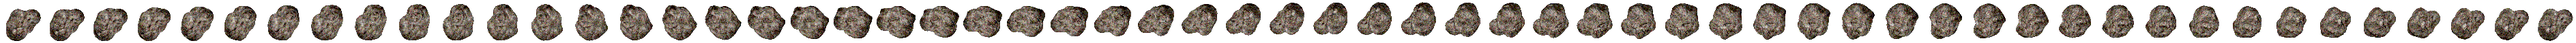
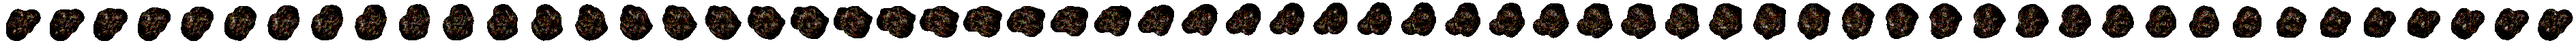
mexi em algumas variaveis

diff --git a/asteroid.py b/asteroid.py
@@ -6,11 +6,11 @@ from projectile import *
 from screen import List
 
 class Debri(Projectile):
-    def __init__(self, width: int, height: int, total_health: float, tabs: List[int]):
-        super().__init__("assets/images/spinning_asteroid.png", width, height, tabs, 6)
+    def __init__(self, image, width: int, height: int, total_health: float, tabs: List[int]):
+        super().__init__(image, width, height, tabs, 6)
         
         self.set_total_frames(59)
-        self.frame_duration = (1/(24 * 6))
+        self.frame_duration = (1/(24 * 4))
         self.playing = True
         
         self.speed = 300
@@ -125,9 +125,9 @@ class Asteroid(Projectile):
             explosion.anchor = self.anchor
             explosion.offset_multiplier = self.offset_multiplier
     
-    def spawn_debri(self, direction: Vector2):
+    def spawn_debri(self,image: str, direction: Vector2):
         w, h = self.get_width()//2, self.get_height()//2
-        debri : Debri = Debri(w, h, self.total_health//4, self.get_tabs())
+        debri : Debri = Debri(image, w, h, self.total_health//4, self.get_tabs())
         direction.normalize()
         debri.direction = direction
         debri.speed = self.speed*2
@@ -135,10 +135,10 @@ class Asteroid(Projectile):
         debri.horizontal_bounds = self.horizontal_bounds
     
     def spawn_debris(self):
-        self.spawn_debri(Vector2(-1,-1))
-        self.spawn_debri(Vector2(-1, 1))
-        self.spawn_debri(Vector2( 1, 1))
-        self.spawn_debri(Vector2( 1,-1))
+        self.spawn_debri("assets/images/spinning_debri_top_left.png",Vector2(-1,-1))
+        self.spawn_debri("assets/images/spinning_debri_bottom_left.png",Vector2(-1, 1))
+        self.spawn_debri("assets/images/spinning_debri_top_right.png",Vector2( 1, 1))
+        self.spawn_debri("assets/images/spinning_debri_bottom_right.png",Vector2( 1,-1))
     
     def update(self):
         super().update()

diff --git a/main.py b/main.py
@@ -20,7 +20,7 @@ LOG_PERFORMANCE = True
 performance_log : List[List[float]] = []
 ## se o fps for menor que isso, tomar algumas medidas, como nao spawnar novos inimigos
 ## apenas uma medida preventiva, o fps pode acabar sendo menos que o target.
-FPS_TARGET: float = 100
+FPS_TARGET: float = 0
 fps : float = 0
 last_average_fps : float = 9999
 
@@ -45,7 +45,7 @@ control_esquemes = [
 
 enemy_spawn_interval : float = 2.2 # cuidado! nao botar o mesmo que o intervalo de tiro.
 enemy_spawn_cooldown : float = 0
-MAX_ENEMY_COUNT : int = 10 *2
+MAX_ENEMY_COUNT : int = 100 *2
 MAX_ENEMY_BULLET_COUNT : int = 10 *2
 
 TETRIS_LINES = 20
